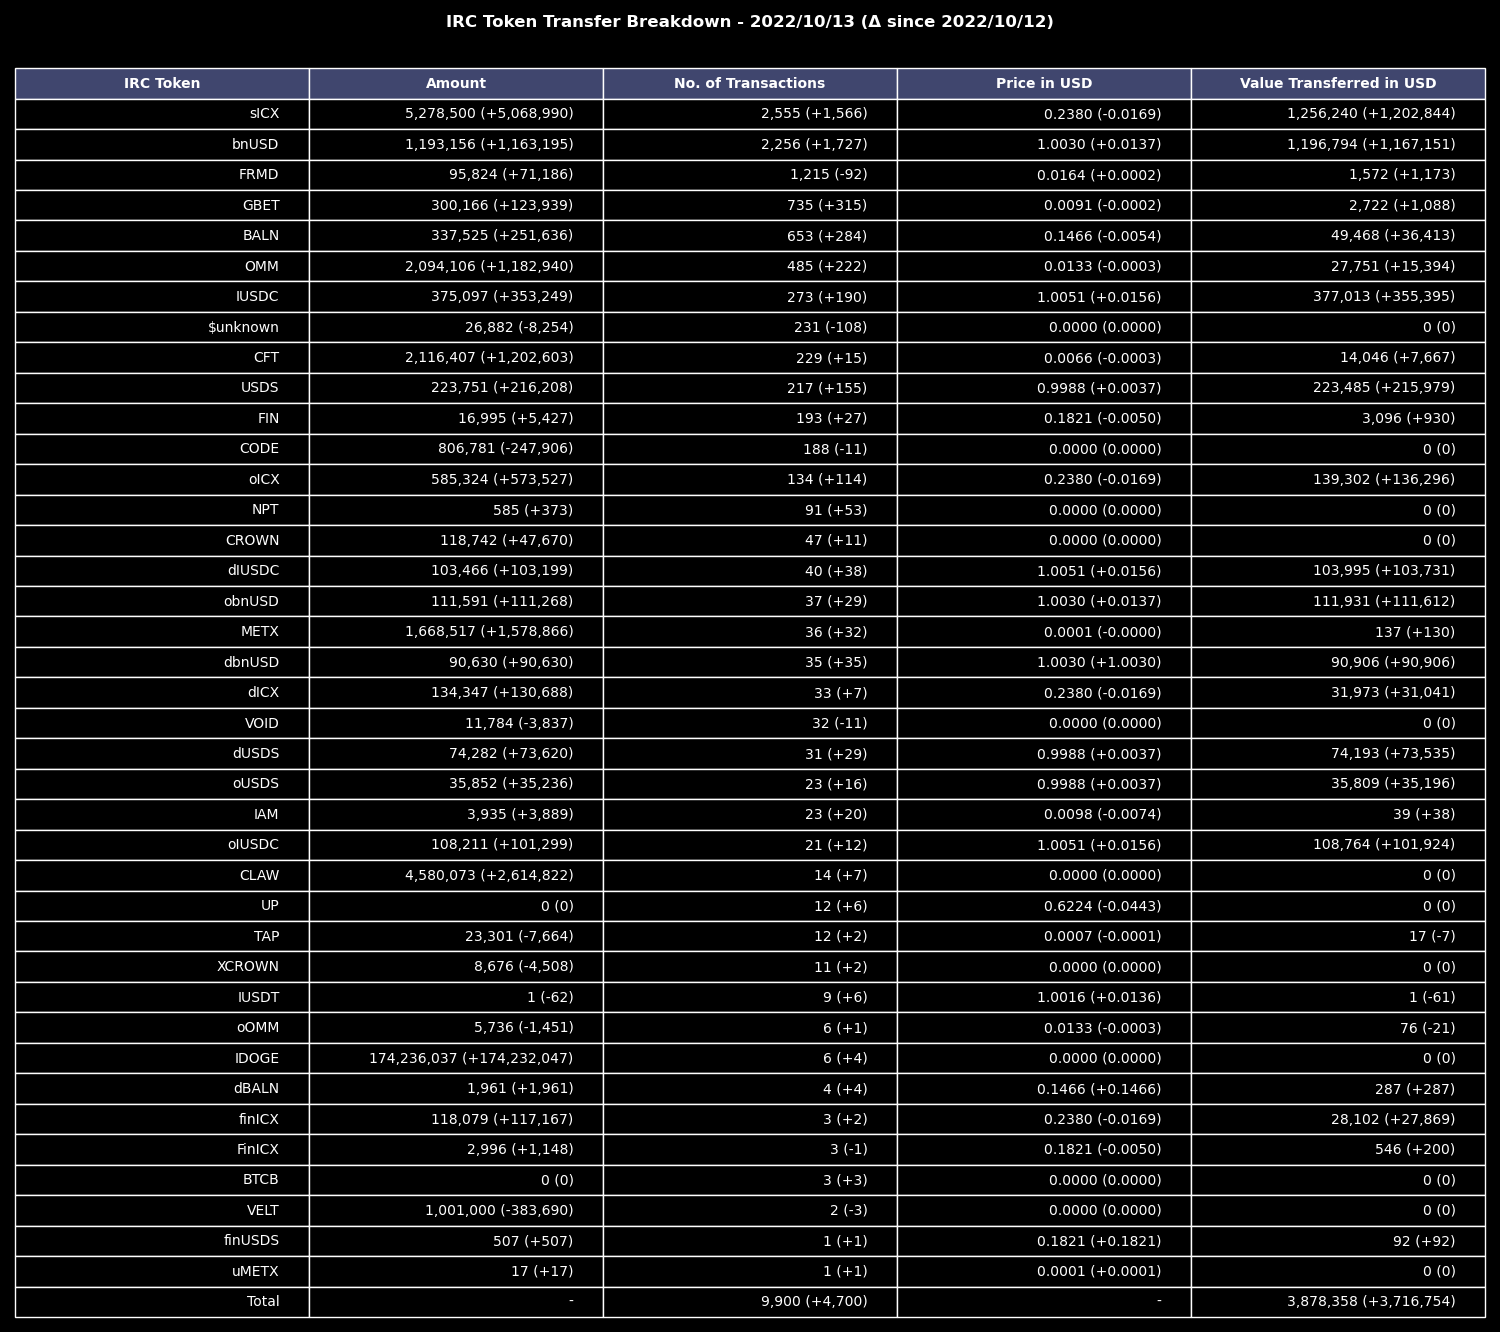
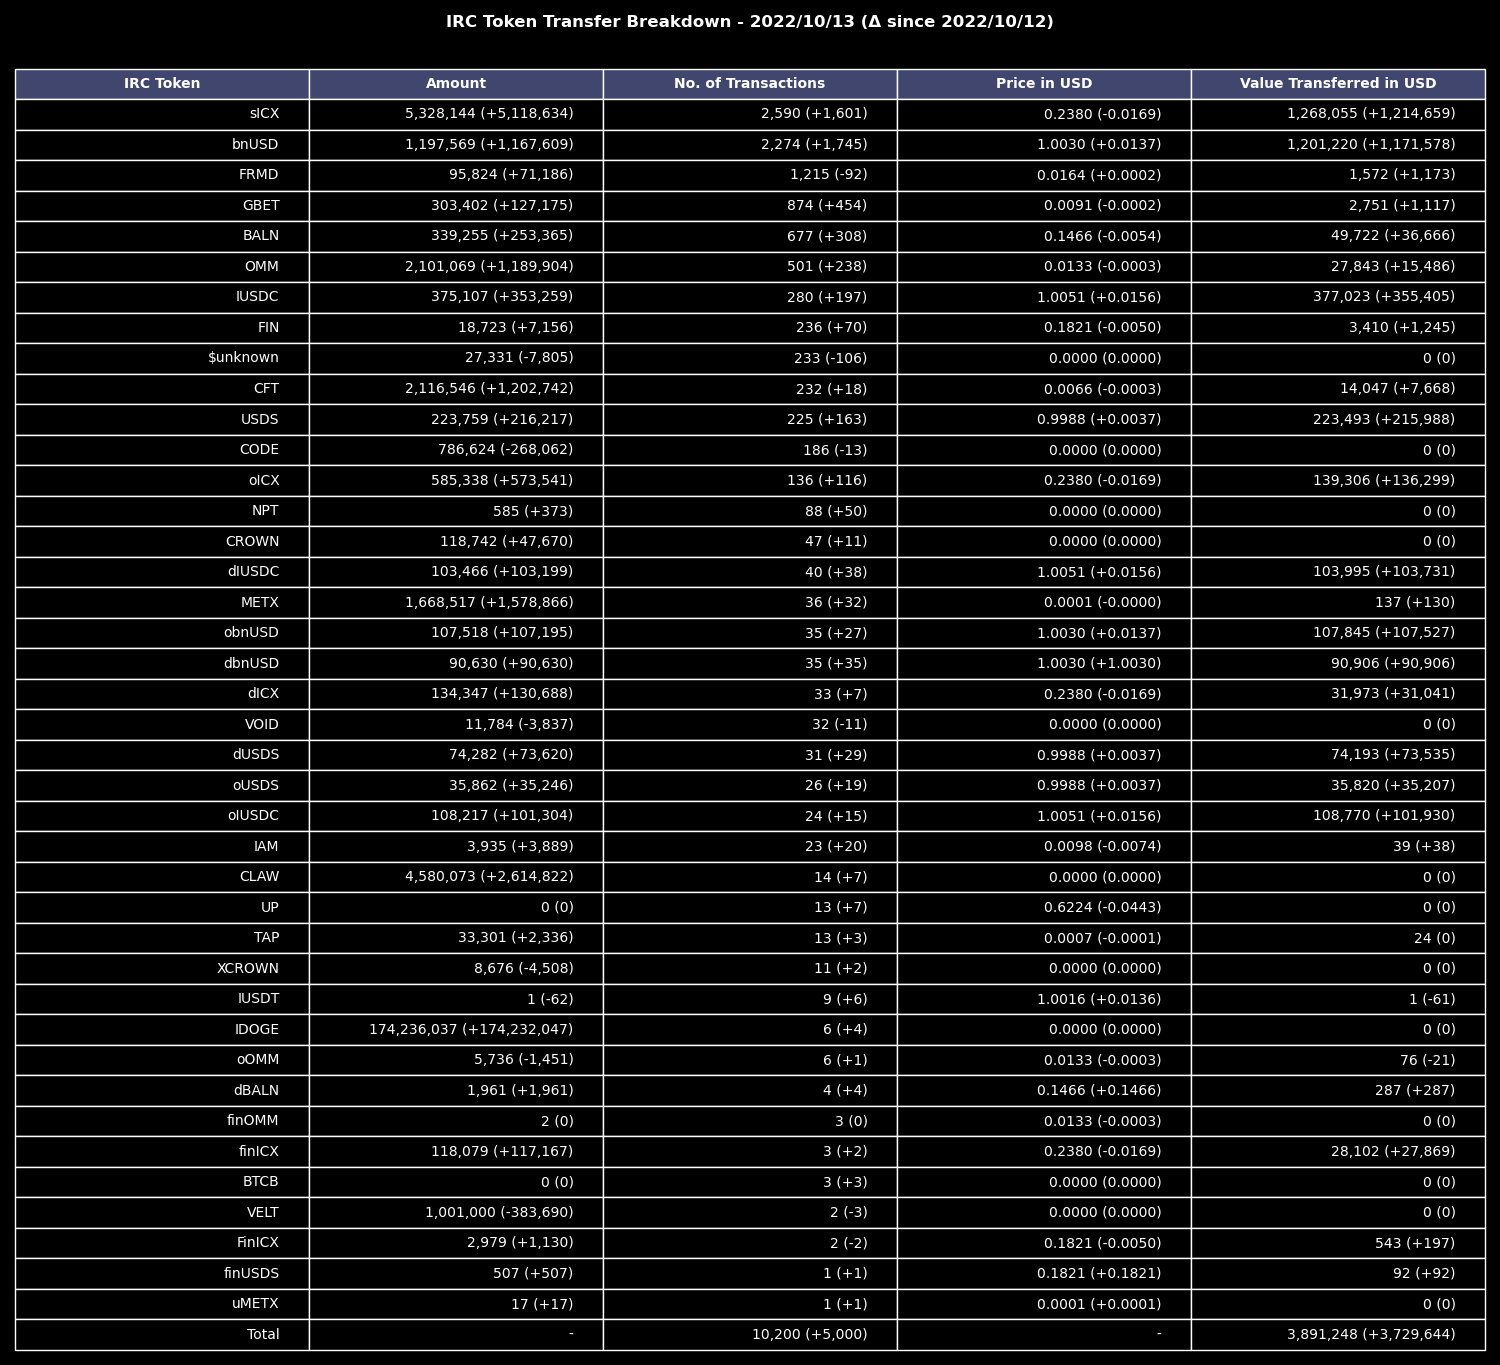
Automatic save commit initiated at Fri 14 Oct 2022 01:30:04 UTC

Changed region(s): [[0.0, 0.0, 1.0, 0.985]]

diff --git a/data_analysis/08_transaction_data/transaction_analysis_ctznode_ubuntu.py b/data_analysis/08_transaction_data/transaction_analysis_ctznode_ubuntu.py
@@ -35,6 +35,8 @@ import matplotlib.lines as mlines
 import matplotlib.ticker as ticker
 import seaborn as sns
 import random
+import requests
+
 
 
 desired_width = 320
@@ -134,8 +136,9 @@ for date_prev in date_of_interest:
     tx_df = clean_tx_df(tx_df, from_this='from', to_this='to')
 
     #iglobal
-    basic_stat_df = pd.read_csv(os.path.join(basicstatPath, 'basic_icx_stat_df_' + date_prev + '.csv'), low_memory=False)
-    iglobal = basic_stat_df['iglobal'][0]
+    # basic_stat_df = pd.read_csv(os.path.join(basicstatPath, 'basic_icx_stat_df_' + date_prev + '.csv'), low_memory=False)
+    # iglobal = basic_stat_df['iglobal'][0]
+    iglobal = 3_000_000
     daily_issuance = iglobal*12/365
 
 
@@ -269,6 +272,52 @@ for date_prev in date_of_interest:
     tx_type = 'contract'
 
 
+    def token_tx_using_community_tracker(total_pages=500):
+        # functions to get transactions and the page count needed for webscraping
+        def get_tx_via_icon_community_tracker(skip_pages):
+            """ This function is used to extract json information from icon community site """
+            req = requests.get('https://tracker.icon.community/api/v1/addresses/contracts?limit=' + str(100) + '&skip=' + str(skip_pages),
+                                 headers={'User-Agent': 'Mozilla/5.0'})
+            jtracker = json.loads(req.text)
+            jtracker_df = pd.DataFrame(jtracker)
+            jtracker_df['datetime'] = timestamp_to_date(jtracker_df, 'block_timestamp', '%Y-%m-%d')
+            return jtracker_df
+    
+        skip = 100
+        total_pages = total_pages
+        last_page = total_pages * skip - skip
+        page_count = range(0, last_page, skip)
+    
+        tx_all = []
+        for k in tqdm(page_count):
+            try:
+                temp_df = get_tx_via_icon_community_tracker(k)
+                if date_of_interest[0] > temp_df['datetime'].iloc[0]:
+                    break
+                    print('Done collecting...')
+                else:
+                    tx_all.append(temp_df)
+    
+            except:
+                random_sleep_except = random.uniform(200,300)
+                print("I've encountered an error! I'll pause for"+str(random_sleep_except/60) + " minutes and try again \n")
+                sleep(random_sleep_except) #sleep the script for x seconds and....#
+                continue
+    
+        token_xfer_df = pd.concat(tx_all)
+        token_xfer_df['transaction_fee'] = token_xfer_df['transaction_fee'].apply(hex_to_icx)
+        rename_these = {'to_address': 'dest_address',
+                        'value_decimal': 'amount',
+                        'transaction_fee': 'fee',
+                        'token_contract_symbol': 'symbol',
+                        'token_contract_name': 'token_name'}
+    
+        token_xfer_df.columns = [rename_these.get(i, i) for i in token_xfer_df.columns]
+        # tx_all = tx_all.rename(columns = rename_these)
+        return token_xfer_df
+
+
+
     # functions to get transactions and the page count needed for webscraping
     def get_tx_via_url(tx_type=tx_type,
                         page_count=1,
@@ -281,7 +330,7 @@ for date_prev in date_of_interest:
         if tx_type in ['contract']:
             
             tx_url = Request(
-                'https://tracker.icon.foundation/v3/contract/list?page=' + str(page_count) + '&count=' + str(tx_count),
+                'https://tracker.icon.community/api/v1/contract/list?page=' + str(page_count) + '&count=' + str(tx_count),
                 headers={'User-Agent': 'Mozilla/5.0'})
 
         # list of tokens

diff --git a/data_analysis/08_transaction_data/transaction_analysis_ctznode_weekly_ubuntu.py b/data_analysis/08_transaction_data/transaction_analysis_ctznode_weekly_ubuntu.py
@@ -130,8 +130,8 @@ for these_dates in date_of_interest:
 
 
     #iglobal
-    basic_stat = pd.read_csv(os.path.join(basicstatPath, 'basic_icx_stat_df_' + these_dates + '.csv'), low_memory=False)
-    basic_stat_df.append(basic_stat)
+    # basic_stat = pd.read_csv(os.path.join(basicstatPath, 'basic_icx_stat_df_' + these_dates + '.csv'), low_memory=False)
+    # basic_stat_df.append(basic_stat)
 
 
 total_transfer_value_text = 'Total Value Transferred: ~' + '{:,}'.format(int(sum(total_transfer_value_list))) + ' USD'
@@ -140,9 +140,13 @@ total_transfer_value_text = 'Total Value Transferred: ~' + '{:,}'.format(int(sum
 tx_df = pd.concat(tx_df).reset_index(drop=True)
 
 # inflation
-basic_stat_df = pd.concat(basic_stat_df).reset_index(drop=True)
-basic_stat_df['daily_issuance'] = basic_stat_df['iglobal']*12/365
-weekly_issuance = basic_stat_df['daily_issuance'].sum()
+# basic_stat_df = pd.concat(basic_stat_df).reset_index(drop=True)
+# basic_stat_df['daily_issuance'] = basic_stat_df['iglobal']*12/365
+# weekly_issuance = basic_stat_df['daily_issuance'].sum()
+
+iglobal = 3_000_000
+daily_issuance = iglobal*12/365
+weekly_issuance = daily_issuance*7
 
 
 def clean_tx_df(tx_df, from_this='from', to_this='to'):
